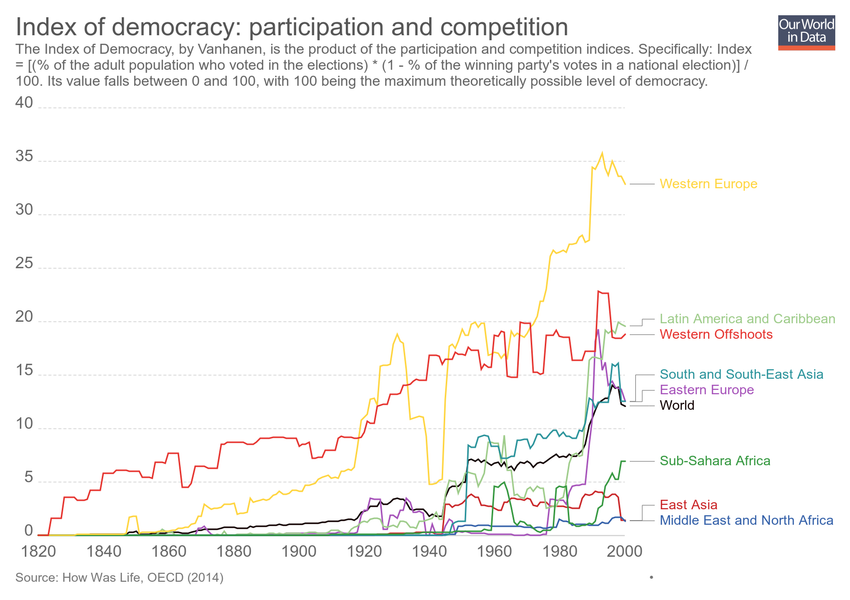
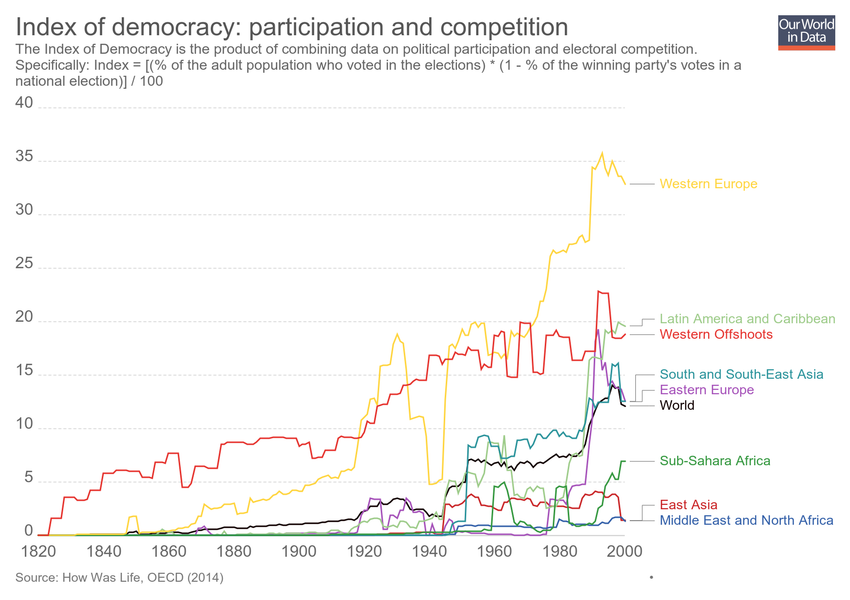
Updating chart index-of-democracy-participation-and-competition

Changed region(s): [[0.0, 0.06, 0.8871, 0.15]]

diff --git a/grapher/index-of-democracy-participation-and-competition.html b/grapher/index-of-democracy-participation-and-competition.html
@@ -1,4 +1,4 @@
-<!doctype html><html><head><meta name="viewport" content="width=device-width, initial-scale=1" /><title>Index of democracy: participation and competition - Our World in Data</title><meta name="description" content="The Index of Democracy, by Vanhanen, is the product of the participation and competition indices. Specifically: Index = [(% of the adult population who voted in the elections) * (1 - % of the winning party's votes in a national election)] / 100. Its value falls between 0 and 100, with 100 being the maximum theoretically possible level of democracy." /><link rel="canonical" href="https://ourworldindata.org/grapher/index-of-democracy-participation-and-competition" /><meta property="fb:app_id" content="1149943818390250" /><meta property="og:url" content="https://ourworldindata.org/grapher/index-of-democracy-participation-and-competition" /><meta property="og:title" content="Index of democracy: participation and competition" /><meta property="og:description" content="The Index of Democracy, by Vanhanen, is the product of the participation and competition indices. Specifically: Index = [(% of the adult population who voted in the elections) * (1 - % of the winning party's votes in a national election)] / 100. Its value falls between 0 and 100, with 100 being the maximum theoretically possible level of democracy." /><meta property="og:image" content="https://ourworldindata.org/grapher/exports/index-of-democracy-participation-and-competition.png?v=15" /><meta property="og:image:width" content="850" /><meta property="og:image:height" content="600" /><meta property="og:site_name" content="Our World in Data" /><meta name="twitter:card" content="summary_large_image" /><meta name="twitter:site" content="@OurWorldInData" /><meta name="twitter:creator" content="@OurWorldInData" /><meta name="twitter:title" content="Index of democracy: participation and competition" /><meta name="twitter:description" content="The Index of Democracy, by Vanhanen, is the product of the participation and competition indices. Specifically: Index = [(% of the adult population who voted in the elections) * (1 - % of the winning party's votes in a national election)] / 100. Its value falls between 0 and 100, with 100 being the maximum theoretically possible level of democracy." /><meta name="twitter:image" content="https://ourworldindata.org/grapher/exports/index-of-democracy-participation-and-competition.png?v=15" /><style>
+<!doctype html><html><head><meta name="viewport" content="width=device-width, initial-scale=1" /><title>Index of democracy: participation and competition - Our World in Data</title><meta name="description" content="The Index of Democracy is the product of combining data on political participation and electoral competition. Specifically: Index = [(% of the adult population who voted in the elections) * (1 - % of the winning party's votes in a national election)] / 100" /><link rel="canonical" href="https://ourworldindata.org/grapher/index-of-democracy-participation-and-competition" /><meta property="fb:app_id" content="1149943818390250" /><meta property="og:url" content="https://ourworldindata.org/grapher/index-of-democracy-participation-and-competition" /><meta property="og:title" content="Index of democracy: participation and competition" /><meta property="og:description" content="The Index of Democracy is the product of combining data on political participation and electoral competition. Specifically: Index = [(% of the adult population who voted in the elections) * (1 - % of the winning party's votes in a national election)] / 100" /><meta property="og:image" content="https://ourworldindata.org/grapher/exports/index-of-democracy-participation-and-competition.png?v=16" /><meta property="og:image:width" content="850" /><meta property="og:image:height" content="600" /><meta property="og:site_name" content="Our World in Data" /><meta name="twitter:card" content="summary_large_image" /><meta name="twitter:site" content="@OurWorldInData" /><meta name="twitter:creator" content="@OurWorldInData" /><meta name="twitter:title" content="Index of democracy: participation and competition" /><meta name="twitter:description" content="The Index of Democracy is the product of combining data on political participation and electoral competition. Specifically: Index = [(% of the adult population who voted in the elections) * (1 - % of the winning party's votes in a national election)] / 100" /><meta name="twitter:image" content="https://ourworldindata.org/grapher/exports/index-of-democracy-participation-and-competition.png?v=16" /><style>
         html, body {
             height: 100%;
             margin: 0;
@@ -20,8 +20,8 @@
         }
     </style><noscript><style>
                     figure { display: none !important; }
-                </style></noscript><link rel="stylesheet" href="https://ourworldindata.org/grapher/assets/commons.bundle.ac09ff8f098f0c7be836.css" /><link rel="preload" href="/grapher/data/variables/85972.json?v=15" as="fetch" crossorigin /></head><body class="singleChart"><figure data-grapher-src="/grapher/index-of-democracy-participation-and-competition"></figure><noscript id="fallback"><img src="/grapher/exports/index-of-democracy-participation-and-competition.svg" /><p>Interactive visualization requires JavaScript</p></noscript><script src="https://cdn.polyfill.io/v2/polyfill.min.js?features=es6,fetch"></script><script src="https://ourworldindata.org/grapher/assets/commons.bundle.ac09ff8f098f0c7be836.js"></script><script src="https://ourworldindata.org/grapher/assets/charts.bundle.dcf65b68eddaba4c6a58.js"></script><script>
-        var jsonConfig = {"id":2339,"map":{"projection":"World","colorSchemeLabels":[],"colorSchemeValues":[],"colorSchemeMinValue":0,"customNumericColors":[],"customCategoryColors":{},"customCategoryLabels":{},"customHiddenCategories":{}},"tab":"chart","slug":"index-of-democracy-participation-and-competition","type":"LineChart","title":"Index of democracy: participation and competition","xAxis":{"scaleType":"linear"},"yAxis":{"max":40,"min":0,"scaleType":"linear"},"version":15,"subtitle":"The Index of Democracy, by Vanhanen, is the product of the participation and competition indices. Specifically: Index = [(% of the adult population who voted in the elections) * (1 - % of the winning party's votes in a national election)] / 100. Its value falls between 0 and 100, with 100 being the maximum theoretically possible level of democracy.","hasMapTab":false,"stackMode":"absolute","dimensions":[{"display":{},"property":"y","variableId":85972}],"entityType":"Region","hasChartTab":true,"isPublished":true,"selectedData":[{"color":"#100","index":0,"entityId":355},{"index":0,"entityId":34613},{"index":0,"entityId":473},{"index":0,"entityId":34620},{"index":0,"entityId":301},{"index":0,"entityId":36553},{"index":0,"entityId":36554},{"index":0,"entityId":476},{"index":0,"entityId":36437}],"addCountryMode":"add-country"};
+                </style></noscript><link rel="stylesheet" href="https://ourworldindata.org/grapher/assets/commons.bundle.ac09ff8f098f0c7be836.css" /><link rel="preload" href="/grapher/data/variables/85972.json?v=16" as="fetch" crossorigin /></head><body class="singleChart"><figure data-grapher-src="/grapher/index-of-democracy-participation-and-competition"></figure><noscript id="fallback"><img src="/grapher/exports/index-of-democracy-participation-and-competition.svg" /><p>Interactive visualization requires JavaScript</p></noscript><script src="https://cdn.polyfill.io/v2/polyfill.min.js?features=es6,fetch"></script><script src="https://ourworldindata.org/grapher/assets/commons.bundle.ac09ff8f098f0c7be836.js"></script><script src="https://ourworldindata.org/grapher/assets/charts.bundle.dcf65b68eddaba4c6a58.js"></script><script>
+        var jsonConfig = {"id":2339,"map":{"projection":"World","colorSchemeLabels":[],"colorSchemeValues":[],"colorSchemeMinValue":0,"customNumericColors":[],"customCategoryColors":{},"customCategoryLabels":{},"customHiddenCategories":{}},"tab":"chart","slug":"index-of-democracy-participation-and-competition","type":"LineChart","title":"Index of democracy: participation and competition","xAxis":{"scaleType":"linear"},"yAxis":{"max":40,"min":0,"scaleType":"linear"},"version":16,"subtitle":"The Index of Democracy is the product of combining data on political participation and electoral competition. Specifically: Index = [(% of the adult population who voted in the elections) * (1 - % of the winning party's votes in a national election)] / 100","hasMapTab":false,"stackMode":"absolute","dimensions":[{"display":{},"property":"y","variableId":85972}],"entityType":"Region","hasChartTab":true,"isPublished":true,"selectedData":[{"color":"#100","index":0,"entityId":355},{"index":0,"entityId":34613},{"index":0,"entityId":473},{"index":0,"entityId":34620},{"index":0,"entityId":301},{"index":0,"entityId":36553},{"index":0,"entityId":36554},{"index":0,"entityId":476},{"index":0,"entityId":36437}],"addCountryMode":"add-country"};
         var figure = document.getElementsByTagName("figure")[0];
         try {
             window.App = {};

diff --git a/grapher/rate-of-internationally-observed-elections.html b/grapher/rate-of-internationally-observed-elections.html
@@ -1,4 +1,4 @@
-<!doctype html><html><head><meta name="viewport" content="width=device-width, initial-scale=1" /><title>Internationally observed elections (%) - Our World in Data</title><meta name="description" content="Percentage of internationally observed elections and whether they were criticized by international observers. Figures cover 1,754 election events in 157 independent states, excluding those with population less than 250,000." /><link rel="canonical" href="https://ourworldindata.org/grapher/rate-of-internationally-observed-elections" /><meta property="fb:app_id" content="1149943818390250" /><meta property="og:url" content="https://ourworldindata.org/grapher/rate-of-internationally-observed-elections" /><meta property="og:title" content="Internationally observed elections (%)" /><meta property="og:description" content="Percentage of internationally observed elections and whether they were criticized by international observers. Figures cover 1,754 election events in 157 independent states, excluding those with population less than 250,000." /><meta property="og:image" content="https://ourworldindata.org/grapher/exports/rate-of-internationally-observed-elections.png?v=16" /><meta property="og:image:width" content="850" /><meta property="og:image:height" content="600" /><meta property="og:site_name" content="Our World in Data" /><meta name="twitter:card" content="summary_large_image" /><meta name="twitter:site" content="@OurWorldInData" /><meta name="twitter:creator" content="@OurWorldInData" /><meta name="twitter:title" content="Internationally observed elections (%)" /><meta name="twitter:description" content="Percentage of internationally observed elections and whether they were criticized by international observers. Figures cover 1,754 election events in 157 independent states, excluding those with population less than 250,000." /><meta name="twitter:image" content="https://ourworldindata.org/grapher/exports/rate-of-internationally-observed-elections.png?v=16" /><style>
+<!doctype html><html><head><meta name="viewport" content="width=device-width, initial-scale=1" /><title>Internationally observed elections by Western monitors - Our World in Data</title><meta name="description" content="Estimates correspond to the number of international elections that were either observed and criticized by Western monitors, observed and not criticized by Western monitors, or elections that were not observed by Western monitors. Criticism refers to allegations of significant vote-fraud." /><link rel="canonical" href="https://ourworldindata.org/grapher/rate-of-internationally-observed-elections" /><meta property="fb:app_id" content="1149943818390250" /><meta property="og:url" content="https://ourworldindata.org/grapher/rate-of-internationally-observed-elections" /><meta property="og:title" content="Internationally observed elections by Western monitors" /><meta property="og:description" content="Estimates correspond to the number of international elections that were either observed and criticized by Western monitors, observed and not criticized by Western monitors, or elections that were not observed by Western monitors. Criticism refers to allegations of significant vote-fraud." /><meta property="og:image" content="https://ourworldindata.org/grapher/exports/rate-of-internationally-observed-elections.png?v=11" /><meta property="og:image:width" content="850" /><meta property="og:image:height" content="600" /><meta property="og:site_name" content="Our World in Data" /><meta name="twitter:card" content="summary_large_image" /><meta name="twitter:site" content="@OurWorldInData" /><meta name="twitter:creator" content="@OurWorldInData" /><meta name="twitter:title" content="Internationally observed elections by Western monitors" /><meta name="twitter:description" content="Estimates correspond to the number of international elections that were either observed and criticized by Western monitors, observed and not criticized by Western monitors, or elections that were not observed by Western monitors. Criticism refers to allegations of significant vote-fraud." /><meta name="twitter:image" content="https://ourworldindata.org/grapher/exports/rate-of-internationally-observed-elections.png?v=11" /><style>
         html, body {
             height: 100%;
             margin: 0;
@@ -20,8 +20,8 @@
         }
     </style><noscript><style>
                     figure { display: none !important; }
-                </style></noscript><link rel="stylesheet" href="https://ourworldindata.org/grapher/assets/commons.bundle.ac09ff8f098f0c7be836.css" /><link rel="preload" href="/grapher/data/variables/97378+97379.json?v=16" as="fetch" crossorigin /></head><body class="singleChart"><figure data-grapher-src="/grapher/rate-of-internationally-observed-elections"></figure><noscript id="fallback"><img src="/grapher/exports/rate-of-internationally-observed-elections.svg" /><p>Interactive visualization requires JavaScript</p></noscript><script src="https://cdn.polyfill.io/v2/polyfill.min.js?features=es6,fetch"></script><script src="https://ourworldindata.org/grapher/assets/commons.bundle.ac09ff8f098f0c7be836.js"></script><script src="https://ourworldindata.org/grapher/assets/charts.bundle.dcf65b68eddaba4c6a58.js"></script><script>
-        var jsonConfig = {"id":2589,"map":{"projection":"World","colorSchemeLabels":[],"colorSchemeValues":[],"colorSchemeMinValue":0,"customNumericColors":[],"customCategoryColors":{},"customCategoryLabels":{},"customHiddenCategories":{}},"tab":"chart","slug":"rate-of-internationally-observed-elections","type":"StackedArea","title":"Internationally observed elections (%)","xAxis":{"scaleType":"linear"},"yAxis":{"max":80,"min":0,"scaleType":"linear"},"version":16,"subtitle":"Percentage of internationally observed elections and whether they were criticized by international observers. Figures cover 1,754 election events in 157 independent states, excluding those with population less than 250,000.","hasMapTab":false,"stackMode":"absolute","dimensions":[{"display":{"name":"Percent of elections observed and criticised","unit":"%"},"property":"y","variableId":97378},{"display":{"name":"Percent of elections observed and not criticised"},"property":"y","variableId":97379}],"hasChartTab":true,"isPublished":true,"selectedData":[{"index":0,"entityId":355},{"index":1,"entityId":355}],"addCountryMode":"change-country","baseColorScheme":"Plasma","hideRelativeToggle":true,"hideTitleAnnotation":true};
+                </style></noscript><link rel="stylesheet" href="https://ourworldindata.org/grapher/assets/commons.bundle.ac09ff8f098f0c7be836.css" /><link rel="preload" href="/grapher/data/variables/97399+97400+97401.json?v=11" as="fetch" crossorigin /></head><body class="singleChart"><figure data-grapher-src="/grapher/rate-of-internationally-observed-elections"></figure><noscript id="fallback"><img src="/grapher/exports/rate-of-internationally-observed-elections.svg" /><p>Interactive visualization requires JavaScript</p></noscript><script src="https://cdn.polyfill.io/v2/polyfill.min.js?features=es6,fetch"></script><script src="https://ourworldindata.org/grapher/assets/commons.bundle.ac09ff8f098f0c7be836.js"></script><script src="https://ourworldindata.org/grapher/assets/charts.bundle.dcf65b68eddaba4c6a58.js"></script><script>
+        var jsonConfig = {"id":2598,"map":{"projection":"World","colorSchemeLabels":[],"colorSchemeValues":[],"customNumericColors":[],"customCategoryColors":{},"customCategoryLabels":{},"customHiddenCategories":{}},"tab":"chart","note":"Includes 2435 election events in 162 countries","slug":"rate-of-internationally-observed-elections","type":"StackedArea","title":"Internationally observed elections by Western monitors","xAxis":{"scaleType":"linear"},"yAxis":{"min":0,"scaleType":"linear"},"version":11,"subtitle":"Estimates correspond to the number of international elections that were either observed and criticized by Western monitors, observed and not criticized by Western monitors, or elections that were not observed by Western monitors. Criticism refers to allegations of significant vote-fraud.","hasMapTab":false,"stackMode":"relative","dimensions":[{"display":{"name":"Elections not observed","unit":"elections","shortUnit":""},"property":"y","variableId":97399},{"display":{"name":"Elections observed and criticized"},"property":"y","variableId":97400},{"display":{"name":"Elections observed and not critcized"},"property":"y","variableId":97401}],"hasChartTab":true,"isPublished":true,"selectedData":[{"color":"#3360a9","index":0,"entityId":355},{"color":"#5eb77e","index":2,"entityId":355},{"color":"#ca2628","index":1,"entityId":355}],"addCountryMode":"change-country","baseColorScheme":"owid-distinct","invertColorScheme":true,"hideTitleAnnotation":true};
         var figure = document.getElementsByTagName("figure")[0];
         try {
             window.App = {};
